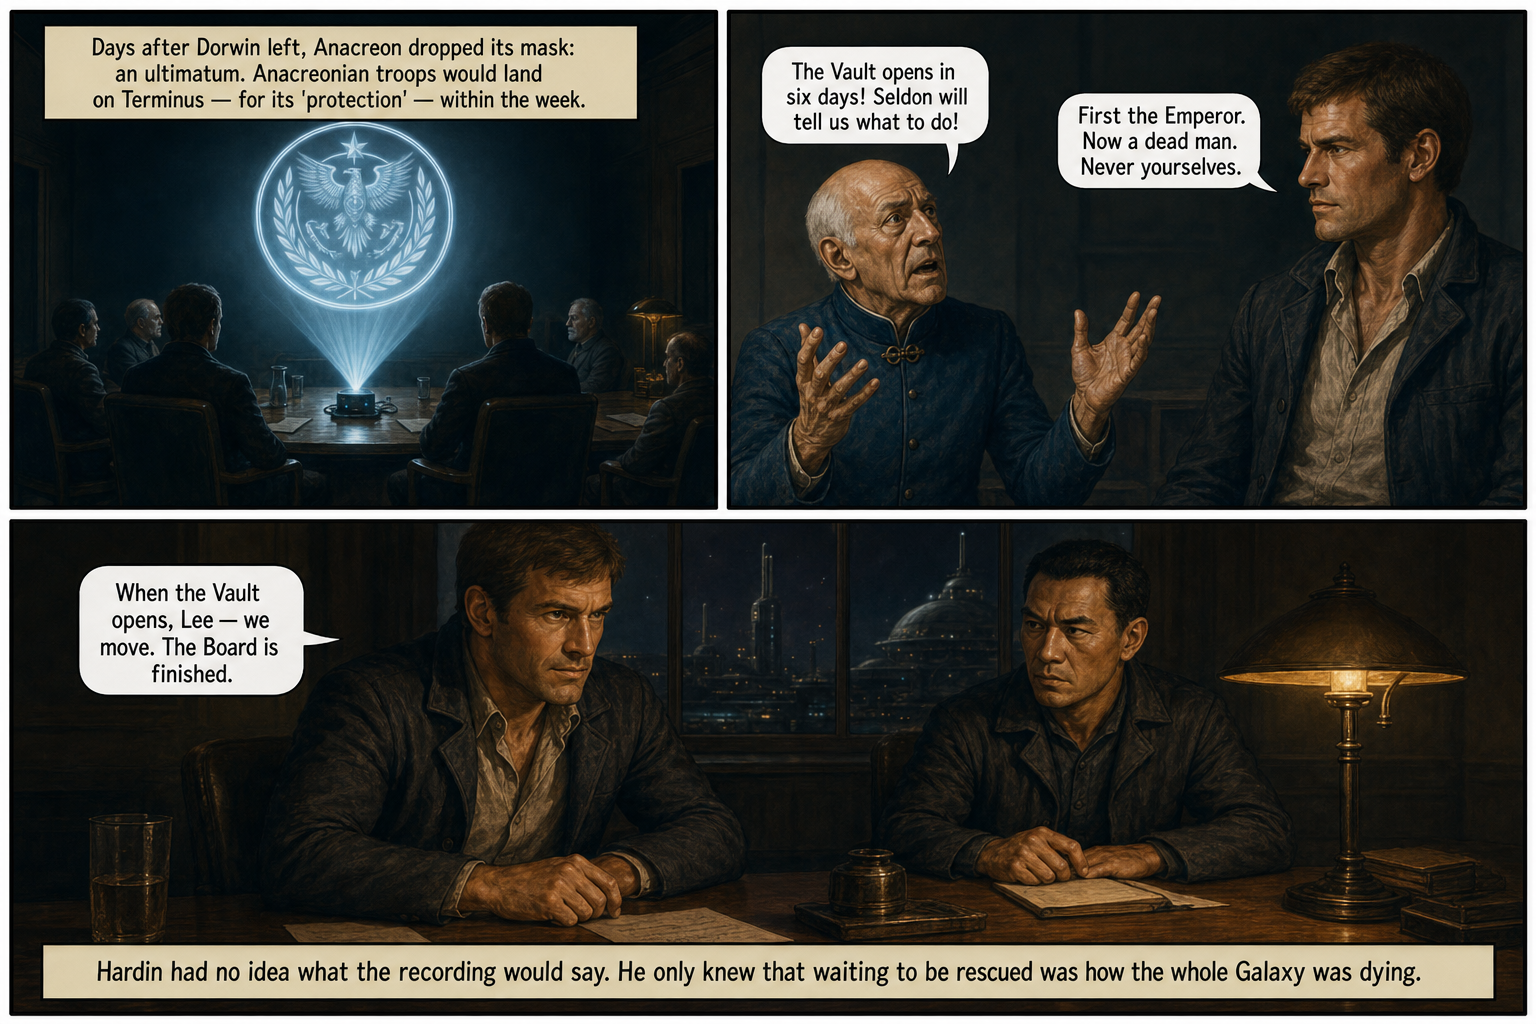
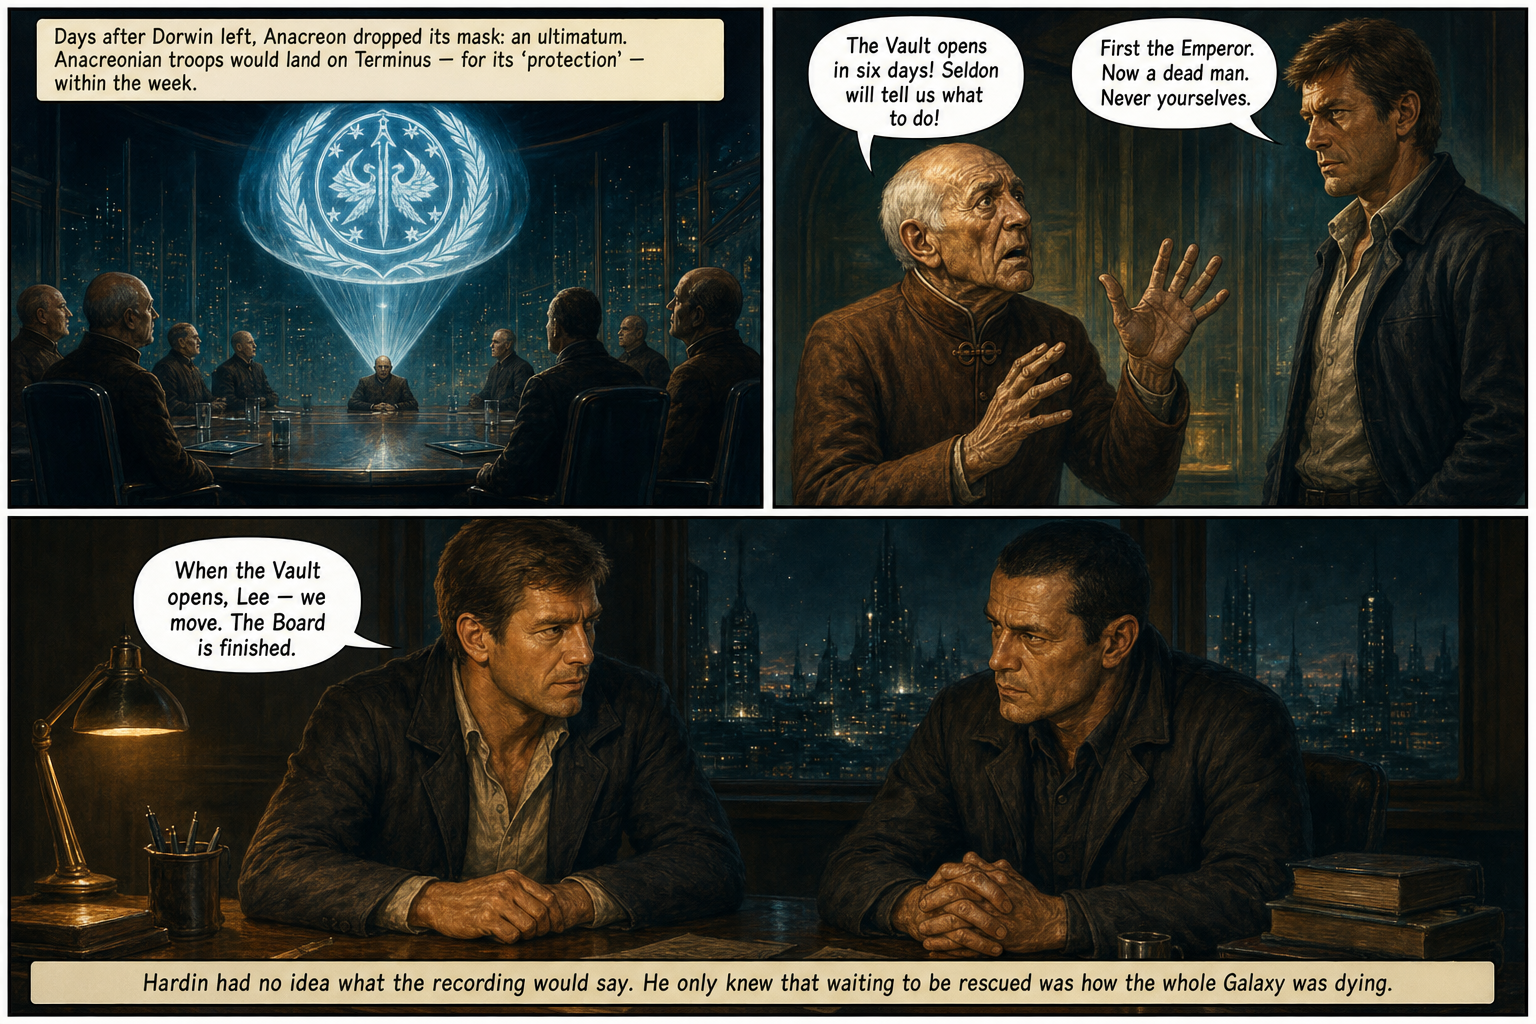
Distinguish Fara from Pirenne on Foundation P10/P12
Both trustees wore near-identical slate-blue tunics, so the two faces
read as one councillor morphing between panels. Recolored Fara's ref
to a russet-brown tunic and regenerated both pages; added cache-busters
to the repaired page entries in the reader.

diff --git a/foundation/index.html b/foundation/index.html
@@ -371,13 +371,13 @@
             { file: 'pages/page-03.png', title: 'Psychohistory', label: 'Page 3 of 16' },
             { file: 'pages/page-04.png', title: 'Arrest', label: 'Page 4 of 16' },
             { file: 'pages/page-05.png', title: 'The Trial', label: 'Page 5 of 16' },
-            { file: 'pages/page-06.png', title: 'The Bargain', label: 'Page 6 of 16' },
+            { file: 'pages/page-06.png?v=2', title: 'The Bargain', label: 'Page 6 of 16' },
             { file: 'pages/page-07.png', title: 'The Plan', label: 'Page 7 of 16' },
             { file: 'pages/page-08.png', title: 'Terminus, Fifty Years Later', label: 'Page 8 of 16' },
             { file: 'pages/page-09.png', title: "The Envoy's Slip", label: 'Page 9 of 16' },
-            { file: 'pages/page-10.png', title: 'The Board', label: 'Page 10 of 16' },
+            { file: 'pages/page-10.png?v=3', title: 'The Board', label: 'Page 10 of 16' },
             { file: 'pages/page-11.png', title: 'The Chancellor of Nothing', label: 'Page 11 of 16' },
-            { file: 'pages/page-12.png', title: 'Six Days', label: 'Page 12 of 16' },
+            { file: 'pages/page-12.png?v=3', title: 'Six Days', label: 'Page 12 of 16' },
             { file: 'pages/page-13.png', title: 'The Time Vault', label: 'Page 13 of 16' },
             { file: 'pages/page-14.png', title: 'One Path', label: 'Page 14 of 16' },
             { file: 'pages/page-15.png', title: 'Obvious as All Hell', label: 'Page 15 of 16' },

diff --git a/foundation/02-CHARACTERS.md b/foundation/02-CHARACTERS.md
@@ -63,9 +63,9 @@ No ref needed. Observed for the record: middle-aged man, slicked-back black hair
 ## JORD FARA, Board trustee (P10 f2, P12 f2)
 
 **Lock (paste verbatim):**
-> Frail trustee around eighty, bald crown with thin white side wisps, clean-shaven deeply wrinkled face, hollow cheeks, prominent ears, anxious watery eyes, slate blue-grey high-collared tunic, stooped posture.
+> Frail trustee around eighty, bald crown with thin white side wisps, clean-shaven deeply wrinkled face, hollow cheeks, prominent ears, anxious watery eyes, warm russet-brown high-collared tunic with a dull copper clasp, stooped posture.
 
-**Ref:** `refs/ref_fara.png` — extracted via `edit_image` from P10's own first rendering (the bald trustee as actually painted = canon; maximally distinct from Pirenne).
+**Ref:** `refs/ref_fara_brown.png` — extracted via `edit_image` from P10's own first rendering (the bald trustee as actually painted = canon), then recolored russet-brown. QA LESSON: the first ref kept his original slate-blue tunic — nearly identical to Pirenne's, so two different faces in the same costume read as ONE councillor morphing between panels. **Distinct recurring characters need distinct COSTUMES, not just distinct faces.** Prompts must also state explicitly: "REFERENCE B and REFERENCE C are TWO DIFFERENT characters who must never be merged."
 
 QA LESSON (round 2, user-caught): this character was originally an "anonymous elderly trustee" locked in prose only — he rendered as two different old men on P10 and P12 and read as a continuity error. **There is no such thing as "anonymous" in a recurring room. Any character who appears on 2+ pages gets a ref. RELYING ON TEXT PROMPTS FOR CHARACTER LOCK IS NOT ACCEPTABLE** (user directive, 2026-07-05).
 
@@ -74,8 +74,8 @@ QA LESSON (round 2, user-caught): this character was originally an "anonymous el
 - `refs/composite_act1_gaal_seldon.png` — [ref_gaal | ref_seldon], thin labels "REFERENCE A" / "REFERENCE B". Anchor for P2, P3, P4, P7.
 - `refs/composite_act2_hardin_pirenne.png` — [ref_hardin | ref_pirenne]. Anchor for P9, P15.
 - `refs/composite_p6_bench_seldon.png` — [bench crop | ref_seldon]. Anchor for P6 (repair).
-- `refs/composite_p10_hardin_pirenne_fara.png` — [ref_hardin | ref_pirenne | ref_fara]. Anchor for P10 (repair).
-- `refs/composite_p12_hardin_fara.png` — [ref_hardin | ref_fara]. Anchor for P12 (repair).
+- `refs/composite_p10_hardin_pirenne_fara_v2.png` — [ref_hardin | ref_pirenne | ref_fara_brown]. Anchor for P10 (repair round 3).
+- `refs/composite_p12_hardin_fara_v2.png` — [ref_hardin | ref_fara_brown]. Anchor for P12 (repair round 3).
 - Vault pages (P13, P14) anchor on `ref_seldon_hologram`; the Board is background prose (Pirenne named but small — glasses + white pointed beard carry him).
 
 Every plate prompt must include: "This input is a REFERENCE SHEET, not a layout to keep — paint ONE NEW unified single-scene image using the references; do not reproduce the sheet's split layout; ignore any printed labels."
